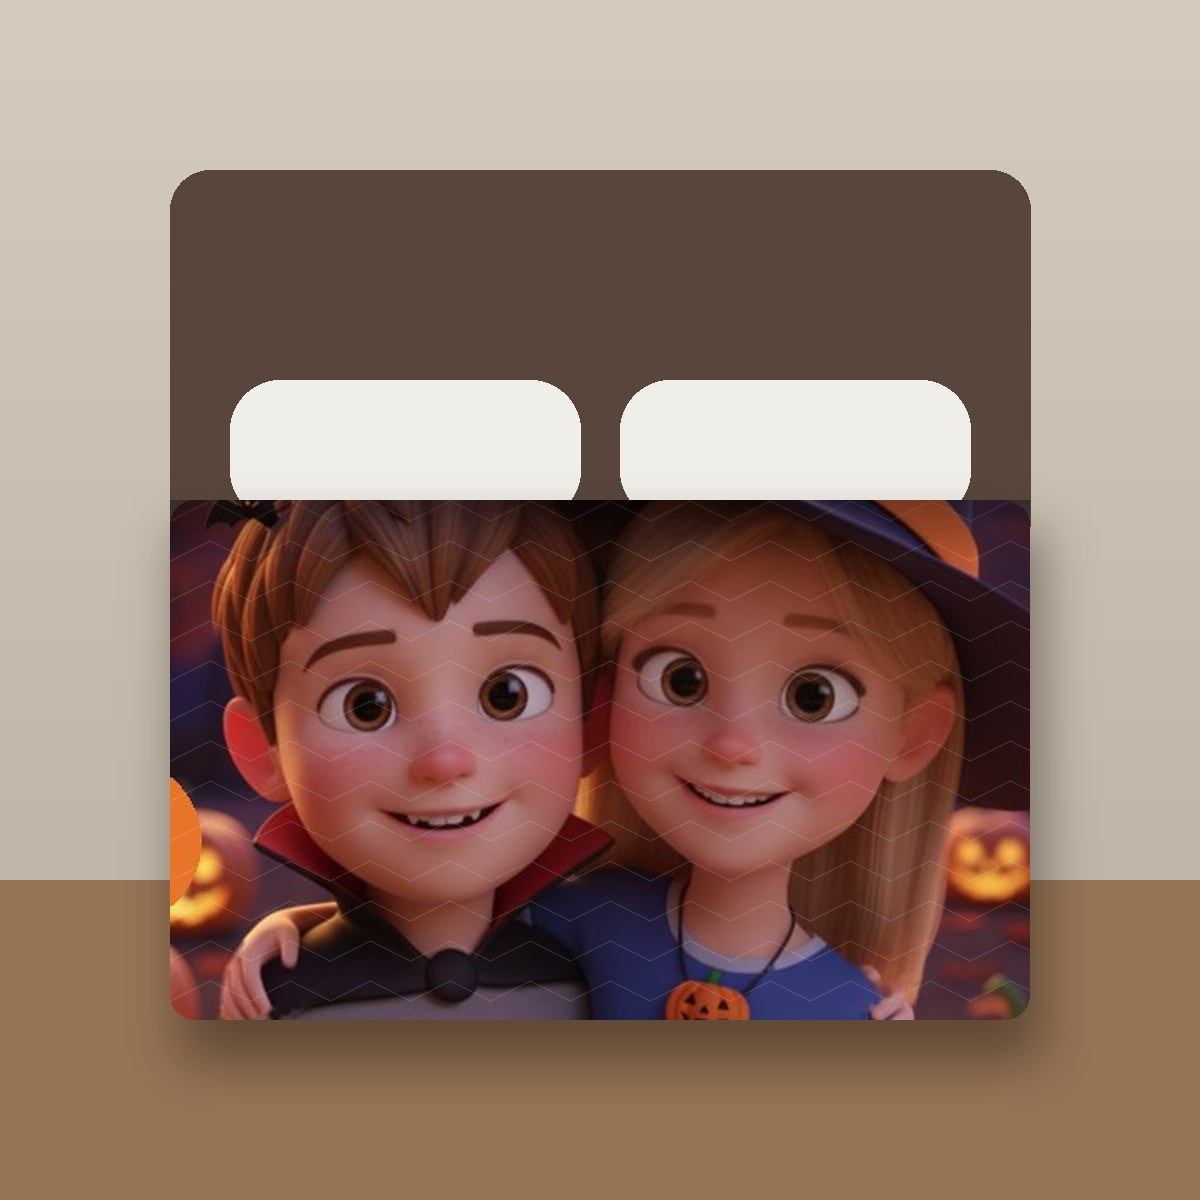
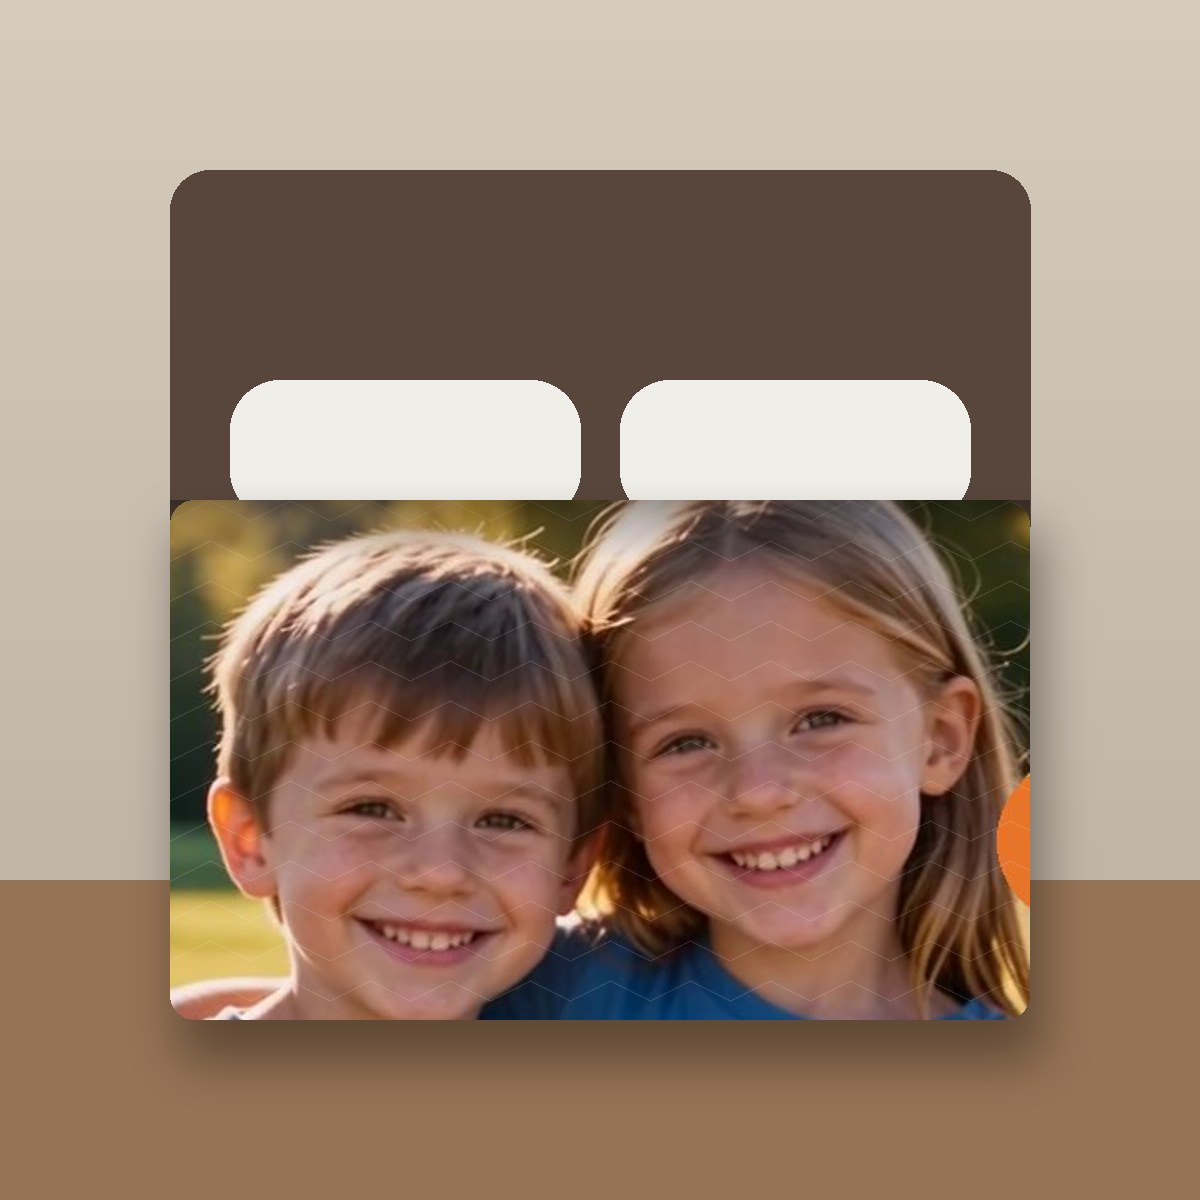
US shop: Halloween pictures only on Halloween pages; everyday photos on other products; neutral homepage
Claude-Session: https://claude.ai/code/session_01MtCPF3kmhX7aPXARQ9Ngt1

Changed region(s): [[0.1233, 0.4008, 0.8633, 0.8633]]

diff --git a/us/index.html b/us/index.html
@@ -4,13 +4,13 @@
 <meta charset="UTF-8">
 <meta name="viewport" content="width=device-width, initial-scale=1.0">
 <title>ONJJEM USA | Personalized Photo &amp; Cartoon Gifts</title>
-<meta name="description" content="Turn your family, kids or pets into a FREE cartoon and put it on blankets, posters, candles, clocks and more. Made in the USA with free US shipping.">
+<meta name="description" content="Your own photo, or a FREE cartoon of your family, kids or pets, on blankets, mugs, tumblers, T-shirts, posters and more. Made in the USA with free US shipping.">
 <link rel="canonical" href="https://onjjem.com/us/">
 <link rel="alternate" hreflang="en-US" href="https://onjjem.com/us/">
 <link rel="alternate" hreflang="en-GB" href="https://onjjem.com/">
 <meta property="og:title" content="ONJJEM USA | Personalized Photo &amp; Cartoon Gifts">
-<meta property="og:description" content="Turn your family into a FREE Halloween cartoon. Made in the USA, free US shipping.">
-<meta property="og:image" content="https://onjjem.com/halloween-before-after.jpg">
+<meta property="og:description" content="Your own photo, or a FREE cartoon, on blankets, mugs, tumblers, T-shirts and more. Made in the USA, free US shipping.">
+<meta property="og:image" content="https://onjjem.com/us/mug-hero.jpg">
 <script async src="https://www.googletagmanager.com/gtag/js?id=G-3L30Q5L3MW"></script>
 <script>
   window.dataLayer = window.dataLayer || [];
@@ -31,9 +31,9 @@
   </div></div>
 
   <section class="wrap home-hero">
-    <h1>Your family as a cartoon, on a gift they'll love</h1>
-    <p>Free cartoon · Made in the USA · Free US shipping</p>
-    <a class="btn home-btn" href="/us/halloween">🎃 Make a Halloween cartoon</a>
+    <h1>Your own photo, on a gift they'll love</h1>
+    <p>Use any photo from your phone, or turn it into a FREE cartoon · Made in the USA · Free US shipping</p>
+    <a class="btn home-btn" href="#shop">Shop gifts</a>
   </section>
 
   <section class="wrap home-shop" id="shop">
@@ -105,8 +105,8 @@
   <section class="l-section wrap">
     <h2>How it works</h2>
     <div class="steps">
-      <div class="step"><div class="step-num">1</div><div><h3>Add your photo</h3></div></div>
-      <div class="step"><div class="step-num">2</div><div><h3>See your FREE cartoon in seconds</h3></div></div>
+      <div class="step"><div class="step-num">1</div><div><h3>Pick a gift and add any photo</h3></div></div>
+      <div class="step"><div class="step-num">2</div><div><h3>Keep your photo, or try a FREE cartoon</h3></div></div>
       <div class="step"><div class="step-num">3</div><div><h3>We make it in the USA and ship it free</h3></div></div>
     </div>
   </section>
